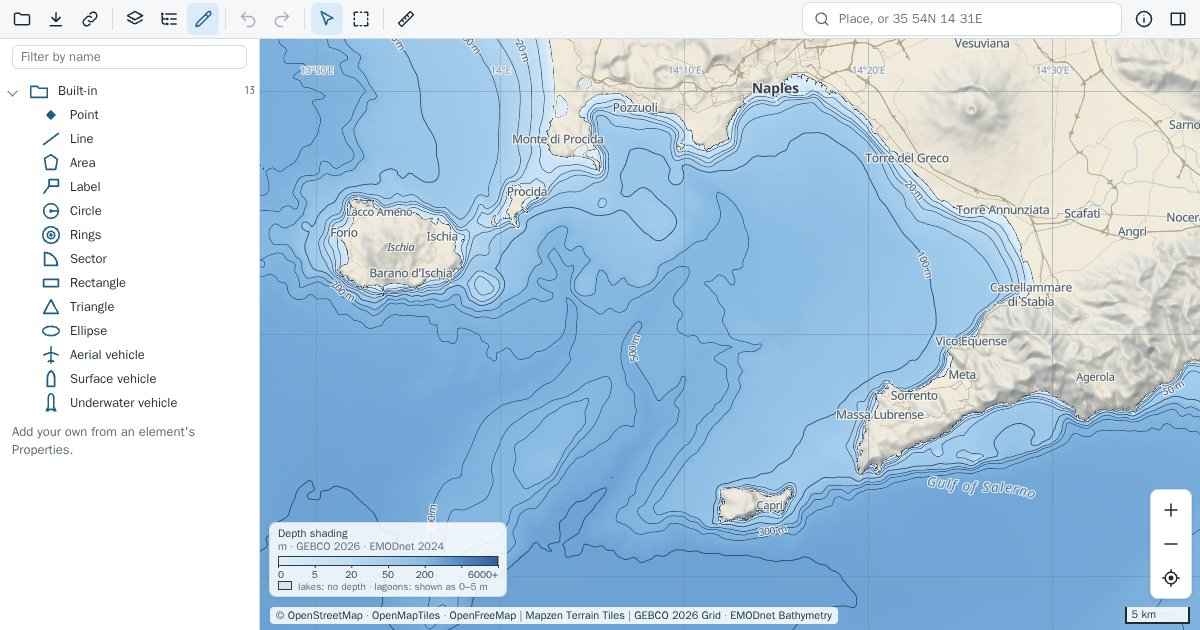
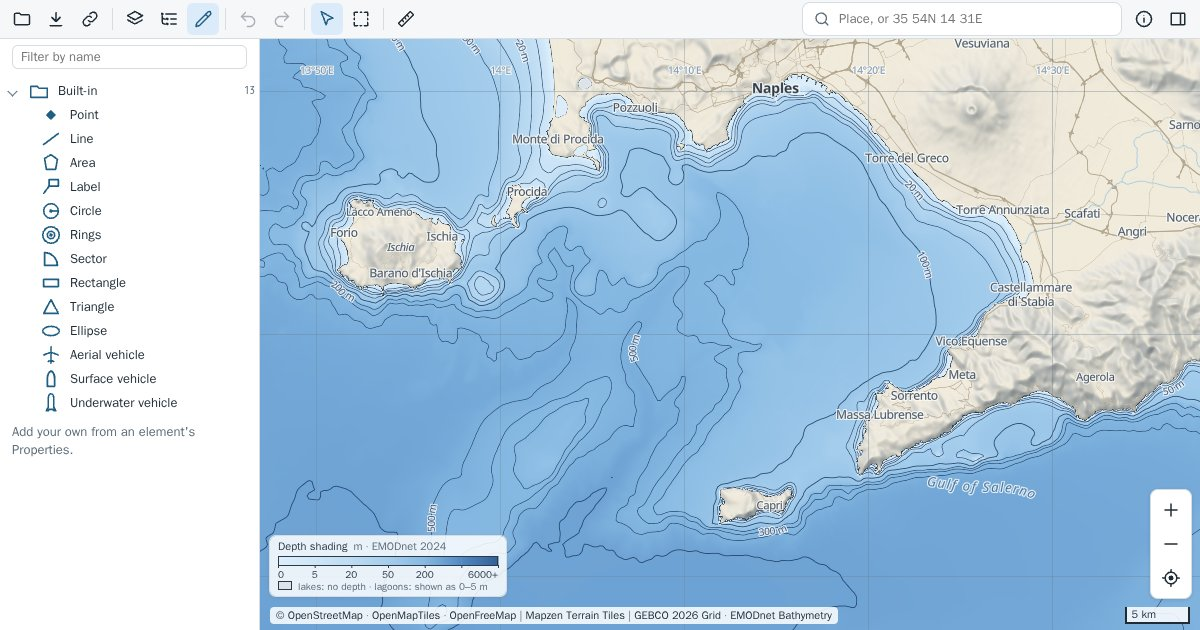
Credits and the depth legend name the grids read in the view
The sea's sources carried one fixed credit, GEBCO's with EMODnet's:
said with GEBCO chosen as the depths' grid, and beyond Europe, where
nothing of EMODnet's is read. EMODnet is now credited only while its
grid is the one chosen and the view meets its area; GEBCO always, as
inland water is classified from it everywhere. The exports' credits
follow.

The depth shading's legend named both grids wherever the view touched
EMODnet's area. With the view wholly inside it, it names EMODnet
alone: what is drawn there. Both on the area's edge.

Smoke checks the credits before and after a switch of grid. The
preview made again, its legend EMODnet's.

Changed region(s): [[0.2158, 0.8143, 0.4317, 0.8746]]

diff --git a/site/app.js b/site/app.js
@@ -1,7 +1,7 @@
 import * as maplibregl from './vendor/maplibre-gl.mjs';
 import mlcontour from './vendor/maplibre-contour.mjs';
 import { GROUPS, ITEMS, isBase, EOX_YEARS, eoxKey, GIBS, DEM_TILES, DEM_SEA_MAX, DEPTH_ZMAX, DEPTH_SOURCES, DEM_LAND_MAX, OMT_TILEJSON, DEPTH_SCHEMES, NO_DEPTH, DENSITY, gibsTiles, gibsDomainUrl, domainEnd, densityTiles, CMEMS, CMEMS_DEPTHS, CLASS_LABELS, EMODNET_AREA, EUROPE, GRIDS, SEAGRASS } from './catalog.js';
-import { buildStyle, depthRamp, OPACITY_PROP, SEA_PICTURES, LOCATION_LAYERS, INK } from './style.js';
+import { buildStyle, depthRamp, OPACITY_PROP, SEA_PICTURES, LOCATION_LAYERS, INK, ATTR_EMODNET, SEA_SOURCES } from './style.js';
 import { cmemsTile, partTimes, partLevels, domainOf, cmemsLegend, partIn } from './cmems.js';
 import { workerClipper } from './clip.js';
 import { drawRamp, drawColormap, drawClasses, wmsClasses } from './legend.js';
@@ -424,8 +424,15 @@ function classesOf(urls) {
 const meets = ([w1, s1, e1, n1], [w, s, e, n]) => w1 < e && e1 > w && s1 < n && n1 > s;
 // (a view on another copy of the world, a link's or one panned round it: moved by whole turns into this one)
 const viewBox = () => { const b = map.getBounds(), turn = 360 * Math.round((b.getWest() + b.getEast()) / 720); return [b.getWest() - turn, b.getSouth(), b.getEast() - turn, b.getNorth()]; };
+// whether EMODnet's grid is read in the view: its grid the one chosen, and the view meeting its area
+const emodnetRead = () => seaGrid() !== 'gebco' && EMODNET_AREA.some((a) => meets(viewBox(), a));
+// what the legend names: what the depths drawn in view are. EMODnet's alone with the view wholly in its
+// area (GEBCO's water where EMODnet has none near, a port, a lagoon, is the exception a click names);
+// both on the area's edge; GEBCO's beyond it, and wherever its grid is the one chosen
 function depthGrids() {
-  return seaGrid() !== 'gebco' && EMODNET_AREA.some((a) => meets(viewBox(), a)) ? 'GEBCO 2026 · EMODnet 2024' : 'GEBCO 2026';
+  if (!emodnetRead()) return 'GEBCO 2026';
+  const [w, s, e, n] = viewBox();
+  return EMODNET_AREA.some(([bw, bs, be, bn]) => w >= bw && e <= be && s >= bs && n <= bn) ? 'EMODnet 2024' : 'GEBCO 2026 · EMODnet 2024';
 }
 
 const KINDS = {
@@ -1215,7 +1222,9 @@ function creditParts() {
   const srcs = [], z = map.getZoom();
   for (const l of style.layers) if (l.source && drawn(l, z) && !srcs.includes(l.source) && shownHere(l.source)) srcs.push(l.source);
   srcs.sort((a, b) => baseSources.has(b) - baseSources.has(a));
-  const parts = [...new Set(srcs.map((s) => map.getSource(s)?.attribution).filter(Boolean))];
+  // the depths: GEBCO's credit (read everywhere: inland water is classified from it), and EMODnet's while its grid is read here
+  const credit = (s) => { const a = map.getSource(s)?.attribution; return a && SEA_SOURCES.includes(s) && emodnetRead() ? `${a} · ${ATTR_EMODNET}` : a; };
+  const parts = [...new Set(srcs.map(credit).filter(Boolean))];
   return parts.filter((p) => !parts.some((q) => q !== p && q.includes(p))); // a credit another holds: once
 }
 // a credit's markup, parsed in an inert document (no image loads, no handlers run)

diff --git a/site/style.js b/site/style.js
@@ -30,7 +30,7 @@ function sources({ seaDemUrl, landDemUrl, isobathUrl, tidUrl, contourUrl, date, 
   // made from is behind its ⓘ
   const ATTR_OSM = '© <a href="https://www.openstreetmap.org/copyright">OpenStreetMap</a> · <a href="https://www.openmaptiles.org/">OpenMapTiles</a> · <a href="https://openfreemap.org">OpenFreeMap</a>';
   const ATTR_DEM = `<a href="${DEM_CREDITS}">Mapzen Terrain Tiles</a>`; // its sources' credits there
-  const ATTR_GEBCO = '<a href="https://www.gebco.net">GEBCO 2026 Grid</a> · <a href="https://emodnet.ec.europa.eu/en/bathymetry">EMODnet Bathymetry</a>'; // the sea's depths: EMODnet's in European seas (gebco.js)
+  const ATTR_GEBCO = '<a href="https://www.gebco.net">GEBCO 2026 Grid</a>'; // the sea's depths; EMODnet's credit beside it where its grid is read (app.js creditParts)
   const s = {
     omt: { type: 'vector', url: OMT_TILEJSON, attribution: ATTR_OSM },
     'dem-sea': { type: 'raster-dem', tiles: [seaDemUrl], encoding: 'terrarium', tileSize: 256, maxzoom: DEM_SEA_MAX, attribution: ATTR_GEBCO },
@@ -275,6 +275,8 @@ export const LOCATION_LAYERS = [
     paint: { 'circle-radius': 7, 'circle-color': '#1f5f86', 'circle-stroke-color': '#ffffff', 'circle-stroke-width': 2.5 } },
 ];
 
+// EMODnet's credit, said with GEBCO's of these sources while its grid is read in the view (app.js)
+export const ATTR_EMODNET = '<a href="https://emodnet.ec.europa.eu/en/bathymetry">EMODnet Bathymetry</a>', SEA_SOURCES = ['dem-sea', 'isobaths', 'gebco-tid'];
 // the colour pictures drawn above the depths' own layers and under the isobaths (layers() puts them there):
 // over one, the isobaths take a dark ink (app.js isobathInk). Ocean data is the same; seagrass, whose
 // meadows leave the depth shading seen round them, is not

diff --git a/docs/depths.md b/docs/depths.md
@@ -107,7 +107,7 @@ one choice: *Depths in European seas* from *EMODnet*, as described here, or
 from *GEBCO*, as everywhere else and as the page drew them before. The
 shading, the isobaths, the depth on a click, a line's elevation profile and
 *Depth sources* all follow it, and a link keeps it. With GEBCO chosen the
-depth shading's legend names GEBCO alone, and so does a click.
+depth shading's legend names GEBCO alone, and so do a click and the credits.
 
 It is there so that the choice of grid can be checked by anyone, place by
 place, and for the places where EMODnet's estimate is the poorer one.
